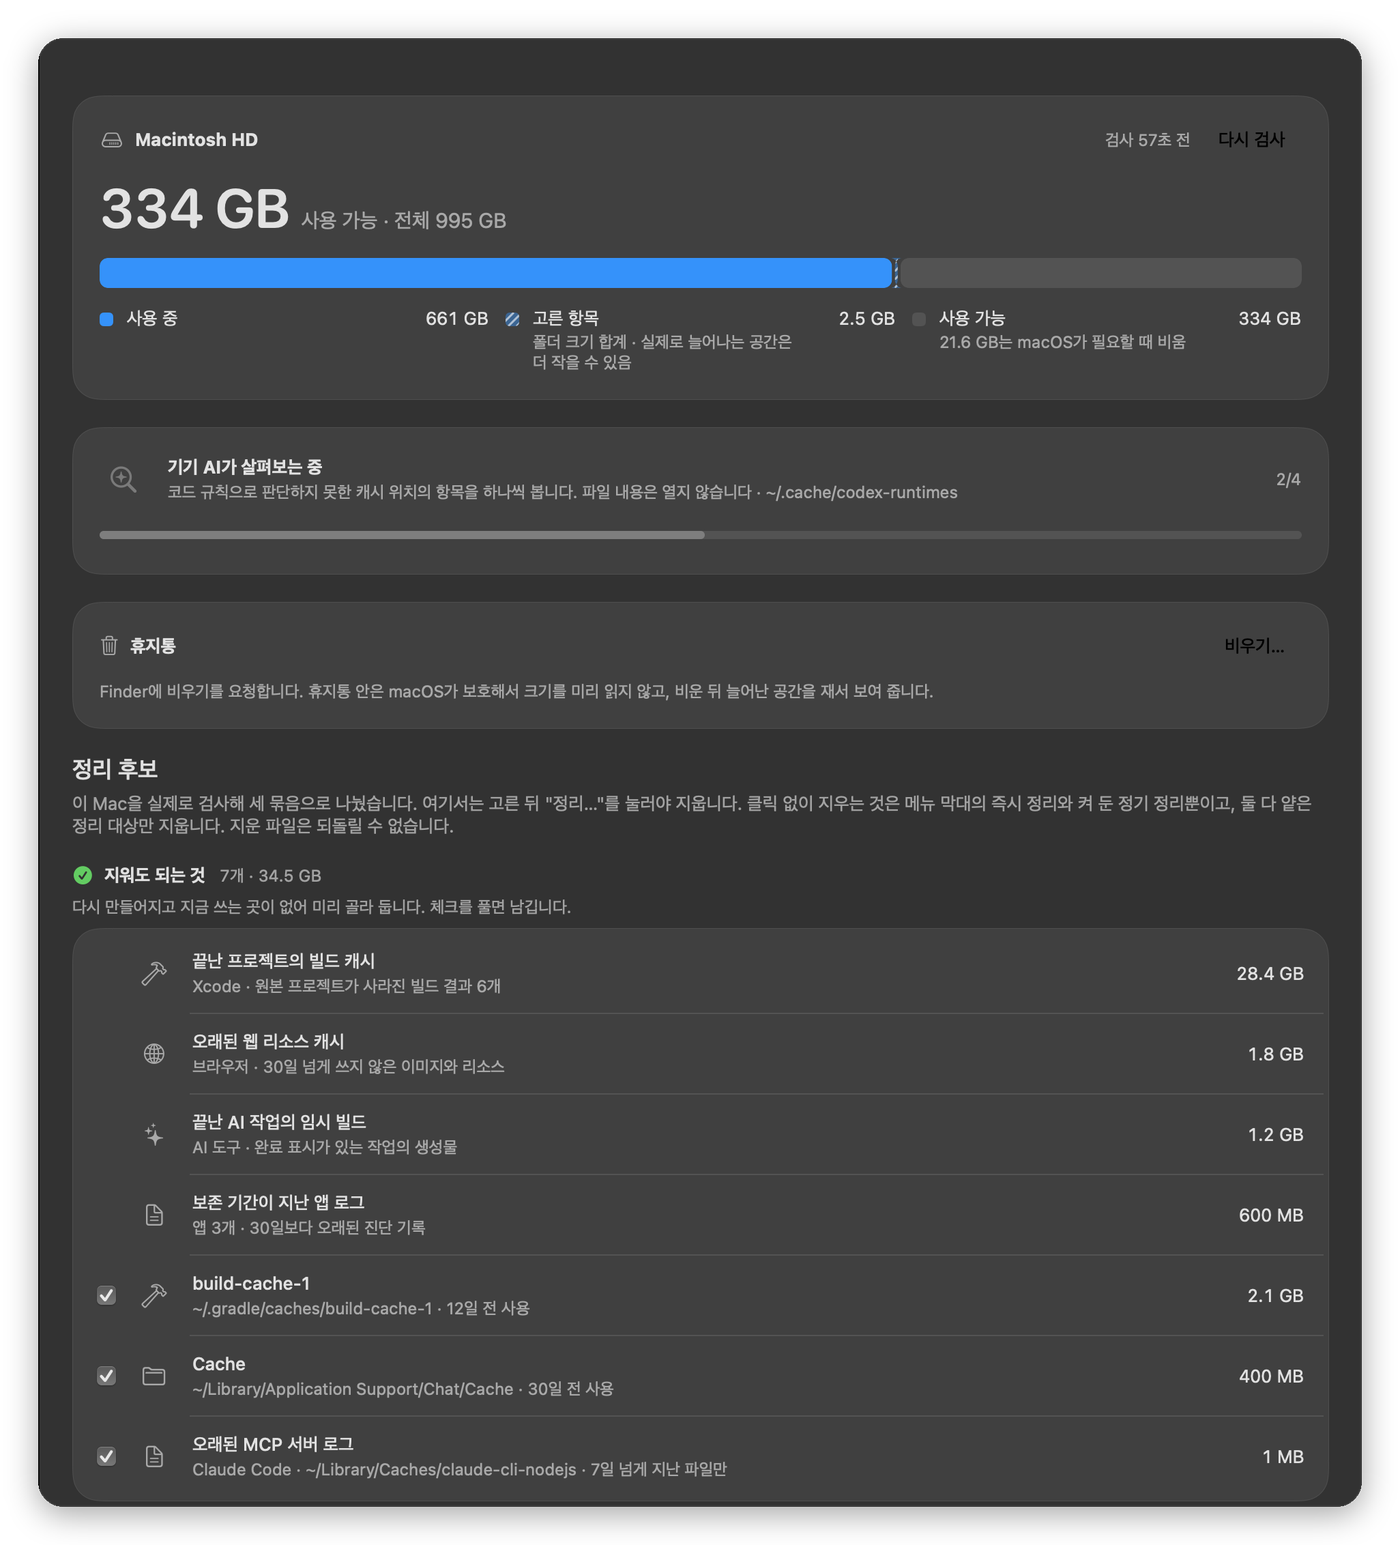
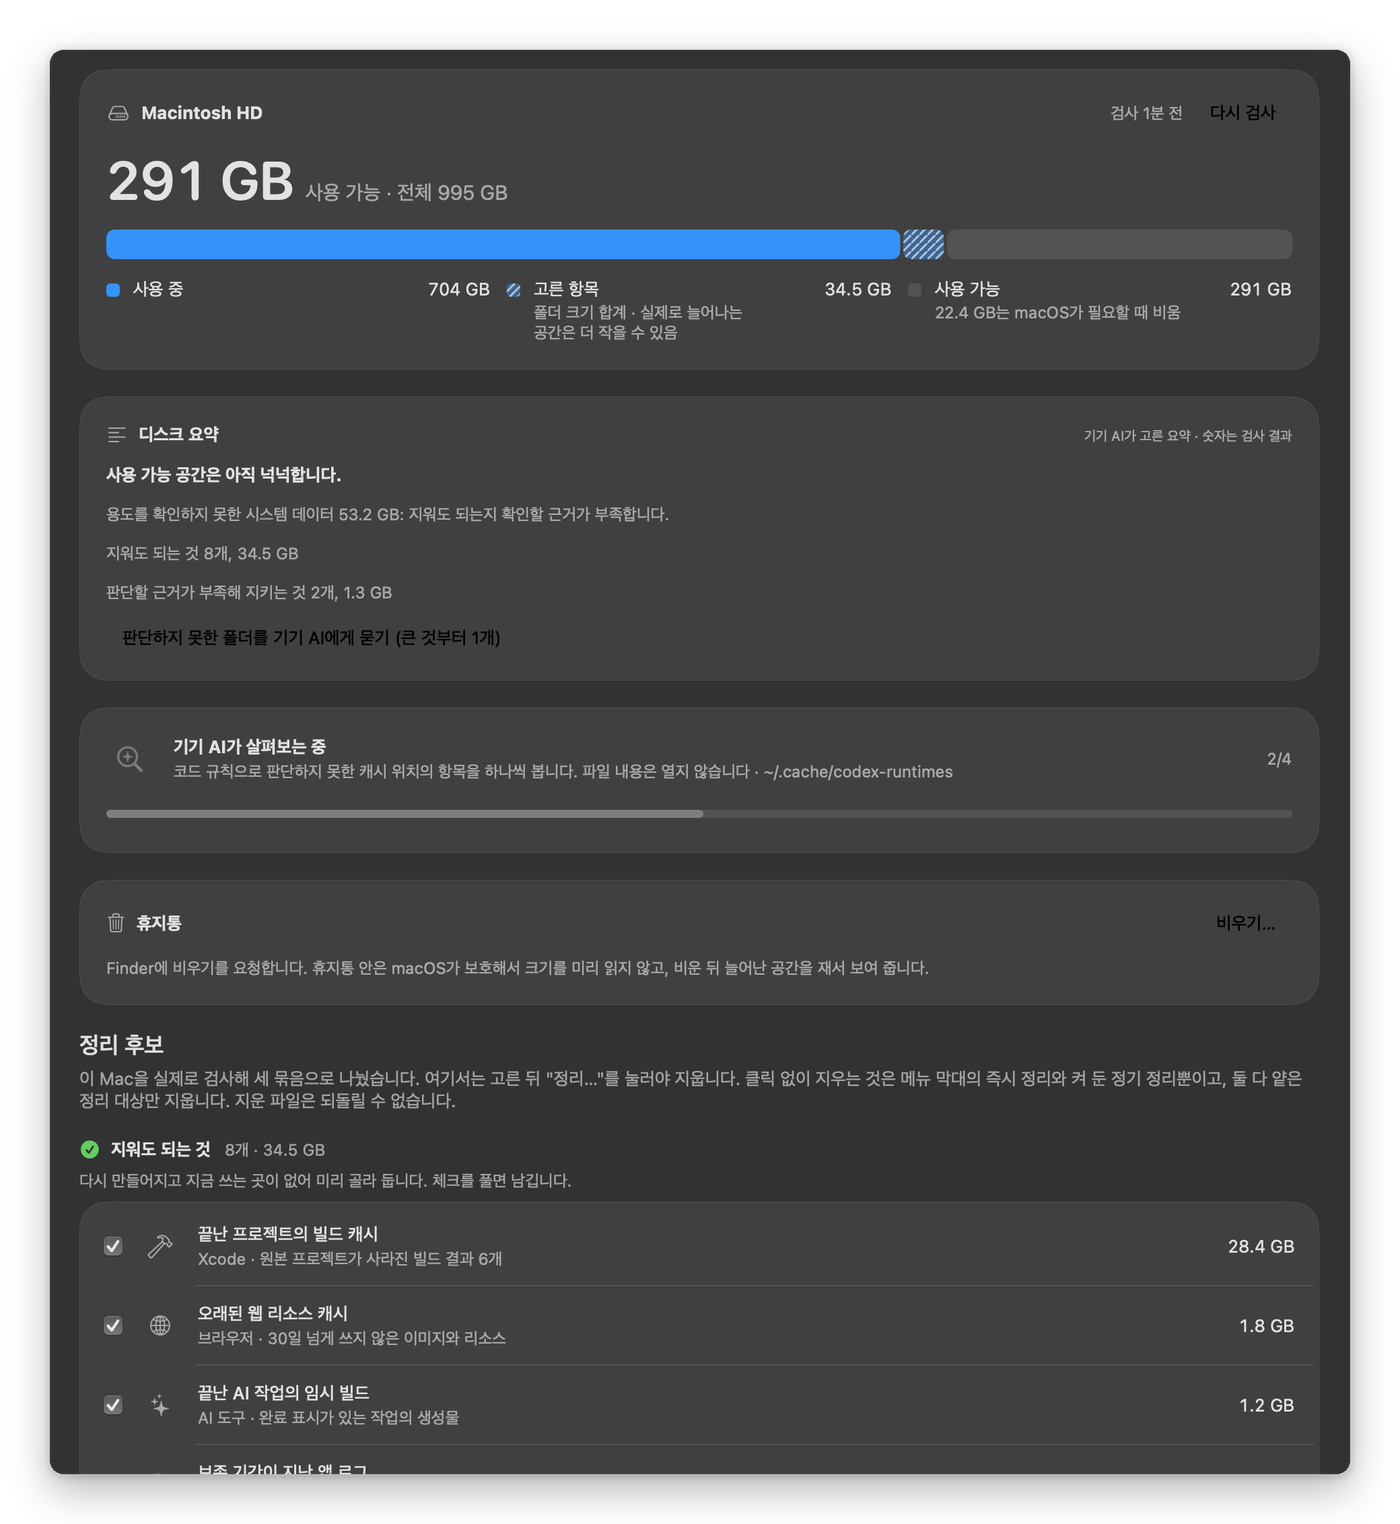
0.5.0: 버전 올림과 README, 디스크 화면 그림

diff --git a/README.md b/README.md
@@ -13,6 +13,8 @@
 - 디스크 정리는 Xcode 캐시, 앱 캐시와 로그, 기기 지원 파일, 시뮬레이터, AI 도구 캐시를 검사해 "지워도 되는 것", "골라서 지울 것", "지우면 안 되는 것"으로 나눕니다.
 - 디스크 화면을 열면 홈 폴더의 프로젝트까지 검사해(3~4분) 표준 위치 밖 Xcode 빌드 캐시, git이 무시하는 빌드 산출물, 오래 안 쓴 `node_modules`, 끝난 AI 작업의 임시 파일, 시뮬레이터 런타임도 찾습니다. 표준 위치 밖 Xcode 빌드 캐시는 바로 지워도 되는 것만 미리 체크하고 나머지는 직접 골라야 지웁니다.
 - 메모리 정리는 아무도 쓰지 않는데 켜진 채 남은 시뮬레이터를 끕니다. 쓰지 않는 앱, 주인 없이 남은 개발 도구, 오래 쉬는 AI 세션은 직접 골라 끝냅니다. 앱 메모리에는 앱이 띄운 보조 프로세스도 더합니다. 지금 쓰는 앱은 건드리지 않습니다.
+- iOS 개발용 Mac만이 아니라 Android, 웹·서버, Python, Rust, 컨테이너, 로컬 AI, 게임 엔진, 디자인·영상 도구를 쓰는 Mac도 검사합니다. 이 Mac에서 하는 작업을 표지 폴더와 앱 이름으로 알아보고, 해당하지 않는 영역은 보이지 않습니다. Docker 디스크처럼 도구가 직접 지워야 하는 큰 항목은 보호하고 공간을 되찾는 명령을 보여 줍니다. 메모리 화면은 켜진 가상 머신과 에뮬레이터를 보여 줍니다.
+- 기기 AI(macOS 26 이상)가 디스크 상태를 요약하고, 규칙이 판단하지 못한 폴더는 사람이 물으면 살펴봅니다. 기기 AI가 다시 만들어지는 것으로 본 폴더도 사람이 승인해야 고를 수 있게 되고, 승인한 규칙은 설정에서 철회합니다.
 - 설정의 "정리 기준"에서 항목마다 얼마나 오래 쓰지 않아야 정리할지 고릅니다.
 - AI 활동 화면은 Claude Code, Codex, Gemini CLI 같은 도구의 세션과 CPU, 메모리, 저장 공간을 제조사별로 보여 줍니다.
 - 메뉴 막대 아이콘은 부하를 채운 링과 BPM을 보여 줍니다. 패널에서는 세 겹 링과 숫자로 상태를 바로 보고, 다시 생기는 캐시는 버튼 하나로 지웁니다.
@@ -32,12 +34,12 @@
   </picture>
 </p>
 
-디스크 화면(왼쪽)은 정리 후보를 세 묶음으로 보여 주고 메뉴 막대 패널(오른쪽)은 한눈에 화면을 줄여 담습니다. 디스크 화면의 정리 목록은 예시 데이터입니다.
+디스크 화면(왼쪽)은 기기 AI가 고른 요약과 정리 후보 세 묶음을 보여 주고 메뉴 막대 패널(오른쪽)은 한눈에 화면을 줄여 담습니다. 디스크 화면의 요약과 정리 목록은 예시 데이터입니다.
 
 <p align="center">
   <picture>
     <source media="(prefers-color-scheme: dark)" srcset="docs/screenshots/disk-dark.png">
-    <img src="docs/screenshots/disk-light.png" alt="디스크 화면. 용량 막대와 정리 후보 목록" width="520">
+    <img src="docs/screenshots/disk-light.png" alt="디스크 화면. 용량 막대, 기기 AI가 고른 디스크 요약, 정리 후보 목록" width="520">
   </picture>
   <picture>
     <source media="(prefers-color-scheme: dark)" srcset="docs/screenshots/menubar-dark.png">
@@ -78,7 +80,7 @@ open dist/Macbak.app
 
 - 프로세스는 이름, 실행 경로, `argv[0]`만 읽습니다. node 같은 런타임일 때만 스크립트 경로 하나를 더 읽고 비밀값이 들어 있을 수 있는 나머지 인자는 읽지 않습니다. 메모리 화면의 보조 프로세스 합산, 개발 도구와 AI 세션 판정은 인자를 전혀 읽지 않고 실행 경로, 실행 이름, 부모·그룹·소유자, 시작 시각, 메모리와 CPU 시간만 씁니다.
 - AI 대화 기록은 파일 이름과 수정 시각만 읽고 내용은 열지 않습니다. 백그라운드 작업은 `state.json`의 `state` 값 하나만 읽습니다. Claude Code 세션 파일은 상태를 적은 칸(pid, 시작 시각, 상태, 갱신 시각, 종류, 작업, 이름)만 읽고 그 옆의 `.key` 파일은 열지 않습니다. 세션 이름은 화면에만 보이고 기록에 남지 않습니다.
-- 기기 AI는 캐시 항목의 이름, 크기, 날짜만 보고 파일 내용은 읽지 않습니다.
+- 기기 AI는 항목의 이름, 크기, 날짜만 보고 파일 내용은 읽지 않습니다. 캐시 위치 밖의 폴더는 사람이 물을 때만 봅니다.
 - 사용 여부를 확인할 수 없으면 "안 쓴다"고 가정하지 않고 보호합니다. 창이 가려졌다가 다시 보일 때도 실행 목록을 새로 읽은 뒤에야 판정합니다.
 - 업데이트를 확인하고 내려받을 때만 GitHub의 배포 위치에 접속하고 이 Mac의 정보는 보내지 않습니다.
 
@@ -87,9 +89,9 @@ open dist/Macbak.app
 자세한 동작과 판정 규칙은 `docs/`에 있습니다.
 
 - [화면과 맥박](docs/screens.md)은 화면마다 무엇을 보여 주는지와 맥박을 계산하는 방법을 설명합니다.
-- [정리](docs/cleanup.md)는 대상별 판정 기준과 정리 기준 설정, 확장 검사, 안전 장치, 메모리와 휴지통 정리, 정기 정리를 설명합니다.
+- [정리](docs/cleanup.md)는 대상별 판정 기준과 정리 기준 설정, 확장 검사, 누구나 쓰는 정리(작업 환경·디스크 요약·기기 AI 규칙), 안전 장치, 메모리와 휴지통 정리, 정기 정리를 설명합니다.
 - [메뉴 막대](docs/menubar.md)는 표시 조합과 패널 구성을 설명합니다.
-- [AI 도구 추가하기](docs/ai-tools.md)는 새 AI 도구를 카탈로그 항목 하나로 지원하는 방법입니다.
+- [AI 도구 추가하기](docs/ai-tools.md)는 새 AI 도구를 카탈로그 항목 하나로 지원하는 방법과 기기 AI 작업을 더할 때 지킬 것을 설명합니다.
 - [개발 기록](docs/development.md)에는 디자인 기준, 성능 측정, 검증 기록, 코드 구조가 있습니다.
 
 테스트는 `swift test`로 돌립니다.
